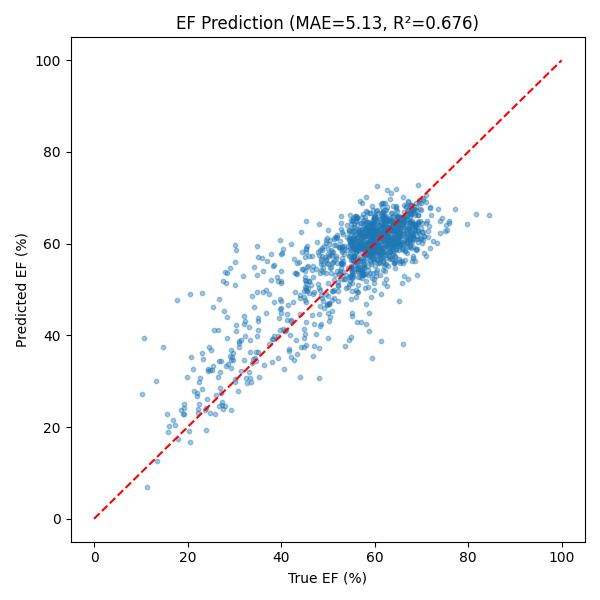
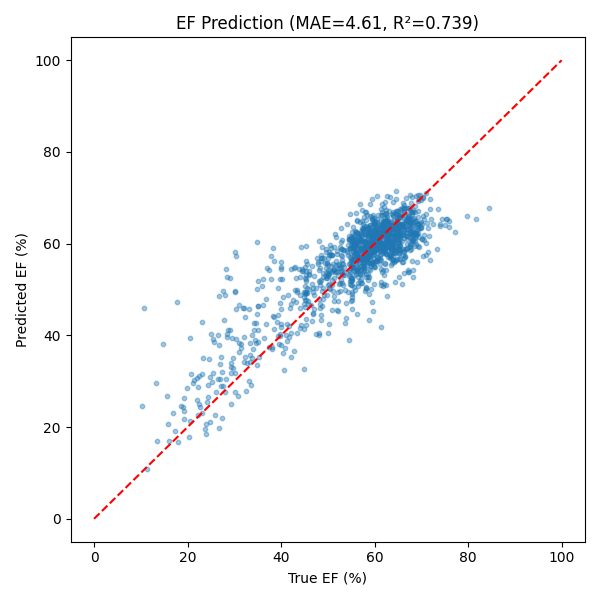
EF: sample every 2nd frame, fine-tuned weights (MAE 4.61, R2 0.739)

diff --git a/training/src/dataset.py b/training/src/dataset.py
@@ -36,18 +36,37 @@ def _read_video(path: str) -> np.ndarray:
     return np.stack(frames)
 
 
-def _sample_clip(video: np.ndarray, clip_length: int, train: bool) -> np.ndarray:
+def window_starts(n: int, clip_length: int, period: int, k: int) -> list:
+    """Start indices of up to k evenly spread windows; a window spans (clip_length-1)*period+1 frames."""
+    span = (clip_length - 1) * period + 1
+    if n <= span:
+        return [0]
+    return sorted({int(round(x)) for x in np.linspace(0, n - span, k)})
+
+
+def _clip_at(video: np.ndarray, start: int, clip_length: int, period: int) -> np.ndarray:
     n = video.shape[0]
-    if n <= clip_length:
-        indices = list(range(n)) + [n - 1] * (clip_length - n)
+    return video[[min(start + i * period, n - 1) for i in range(clip_length)]]  # pad short videos with the last frame
+
+
+def _sample_clip(video: np.ndarray, clip_length: int, train: bool, period: int = 1) -> np.ndarray:
+    n = video.shape[0]
+    span = (clip_length - 1) * period + 1
+    if n <= span:
+        start = 0
     else:
-        start = np.random.randint(0, n - clip_length + 1) if train else (n - clip_length) // 2
-        indices = list(range(start, start + clip_length))
-    return video[indices]
+        start = np.random.randint(0, n - span + 1) if train else (n - span) // 2
+    return _clip_at(video, start, clip_length, period)
+
+
+def to_tensor(clip: np.ndarray) -> np.ndarray:
+    clip = (clip.astype(np.float32) / 255.0 - KINETICS_MEAN) / KINETICS_STD
+    return clip.transpose(3, 0, 1, 2)
 
 
 class EFDataset(Dataset):
-    def __init__(self, split: str):
+    def __init__(self, split: str, period: int = 1):
+        self.period = period
         self.split = split.upper()
         self.df = FILE_LIST[FILE_LIST["Split"] == self.split].reset_index(drop=True)
         self.train = self.split == "TRAIN"
@@ -55,19 +74,16 @@ class EFDataset(Dataset):
     def __len__(self):
         return len(self.df)
 
-    def __getitem__(self, idx):
+    def load_video(self, idx):
         row = self.df.iloc[idx]
-        video_path = os.path.join(VIDEOS_DIR, f"{row['FileName']}.avi")
-        video = _read_video(video_path)
-
+        video = _read_video(os.path.join(VIDEOS_DIR, f"{row['FileName']}.avi"))
         if video.shape[1] != FRAME_SIZE or video.shape[2] != FRAME_SIZE:
             video = np.stack([cv2.resize(f, (FRAME_SIZE, FRAME_SIZE)) for f in video])
+        return video, float(row["EF"]) / 100.0
 
-        clip = _sample_clip(video, CLIP_LENGTH, self.train)
-        clip = clip.astype(np.float32) / 255.0
-        clip = (clip - KINETICS_MEAN) / KINETICS_STD
-        clip = clip.transpose(3, 0, 1, 2)
-
-        ef = float(row["EF"]) / 100.0
+    def __getitem__(self, idx):
+        video, ef = self.load_video(idx)
+        clip = to_tensor(_sample_clip(video, CLIP_LENGTH, self.train, self.period))
+        row = self.df.iloc[idx]
 
         return torch.from_numpy(clip).float(), torch.tensor(ef, dtype=torch.float32)

diff --git a/training/src/train.py b/training/src/train.py
@@ -22,26 +22,30 @@ def evaluate_loader(model, loader, device):
     return (total_abs_error / n) * 100  # de-normalize back to EF percentage points
 
 
-def train(epochs: int = 50, batch_size: int = 4, patience: int = 7):
+def train(epochs: int = 50, batch_size: int = 4, patience: int = 7, lr: float = 1e-4, period: int = 1,
+          tag: str = None, workers: int = 2, init_from: str = None):
     torch.manual_seed(SEED)
     device = torch.device("cuda" if torch.cuda.is_available() else "cpu")
     print(f"device: {device}", flush=True)
 
-    train_set = EFDataset("train")
-    val_set = EFDataset("val")
+    train_set = EFDataset("train", period)
+    val_set = EFDataset("val", period)
 
-    train_loader = DataLoader(train_set, batch_size=batch_size, shuffle=True, num_workers=2, pin_memory=True)
-    val_loader = DataLoader(val_set, batch_size=batch_size, shuffle=False, num_workers=2, pin_memory=True)
+    train_loader = DataLoader(train_set, batch_size=batch_size, shuffle=True, num_workers=workers, pin_memory=True)
+    val_loader = DataLoader(val_set, batch_size=batch_size, shuffle=False, num_workers=workers, pin_memory=True)
 
     model = EFRegressor().to(device)
+    if init_from:
+        model.load_state_dict(torch.load(init_from, map_location=device))
+        print(f"initialised from {init_from}", flush=True)
     criterion = nn.MSELoss()
-    optimizer = torch.optim.AdamW(model.parameters(), lr=1e-4, weight_decay=1e-4)
+    optimizer = torch.optim.AdamW(model.parameters(), lr=lr, weight_decay=1e-4)
     scheduler = torch.optim.lr_scheduler.CosineAnnealingLR(optimizer, T_max=epochs)
     scaler = torch.amp.GradScaler("cuda", enabled=(device.type == "cuda"))
 
     best_mae = float("inf")
     patience_counter = 0
-    model_path = os.path.join(ARTIFACTS_DIR, "ef_model.pt")
+    model_path = os.path.join(ARTIFACTS_DIR, f"{tag or 'ef'}_model.pt")
 
     for epoch in range(1, epochs + 1):
         model.train()
@@ -82,5 +86,12 @@ if __name__ == "__main__":
     parser = argparse.ArgumentParser()
     parser.add_argument("--epochs", type=int, default=50)
     parser.add_argument("--batch-size", type=int, default=4)
+    parser.add_argument("--patience", type=int, default=7)
+    parser.add_argument("--lr", type=float, default=1e-4)
+    parser.add_argument("--period", type=int, default=1, help="use every Nth frame (EchoNet is ~50 fps; 2 covers a full beat)")
+    parser.add_argument("--tag", default=None, help="save as <tag>_model.pt")
+    parser.add_argument("--workers", type=int, default=2)
+    parser.add_argument("--init-from", default=None)
     args = parser.parse_args()
-    train(epochs=args.epochs, batch_size=args.batch_size)
+    train(epochs=args.epochs, batch_size=args.batch_size, patience=args.patience, lr=args.lr, period=args.period,
+          tag=args.tag, workers=args.workers, init_from=args.init_from)

diff --git a/training/src/evaluate.py b/training/src/evaluate.py
@@ -6,31 +6,33 @@ import torch
 from torch.utils.data import DataLoader
 
 from config import ARTIFACTS_DIR
-from dataset import EFDataset
+from dataset import EFDataset, CLIP_LENGTH, _clip_at, _sample_clip, to_tensor, window_starts
 from model import EFRegressor
 
 
-def evaluate():
+def evaluate(tag: str = None, period: int = 1, windows: int = 1):
     device = torch.device("cuda" if torch.cuda.is_available() else "cpu")
 
     model = EFRegressor().to(device)
-    model_path = os.path.join(ARTIFACTS_DIR, "ef_model.pt")
+    model_path = os.path.join(ARTIFACTS_DIR, f"{tag or 'ef'}_model.pt")
     model.load_state_dict(torch.load(model_path, map_location=device))
     model.eval()
 
-    test_set = EFDataset("test")
-    test_loader = DataLoader(test_set, batch_size=4, shuffle=False)
-
-    all_preds, all_true = [], []
+    test_set = EFDataset("test", period)
+    all_preds, all_true, center_preds = [], [], []
     with torch.no_grad():
-        for clips, efs in test_loader:
-            clips = clips.to(device)
-            preds = model(clips).cpu().numpy() * 100
-            all_preds.extend(preds.tolist())
-            all_true.extend((efs.numpy() * 100).tolist())
+        for i in range(len(test_set)):
+            video, ef = test_set.load_video(i)
+            starts = window_starts(video.shape[0], CLIP_LENGTH, period, windows)
+            clips = torch.from_numpy(np.stack([to_tensor(_clip_at(video, s, CLIP_LENGTH, period)) for s in starts])).float().to(device)
+            p = model(clips).cpu().numpy() * 100
+            all_preds.append(float(p.mean()))
+            center_preds.append(float(model(torch.from_numpy(to_tensor(_sample_clip(video, CLIP_LENGTH, False, period))[None]).float().to(device)).cpu().numpy()[0] * 100))
+            all_true.append(ef * 100)
 
     all_preds = np.array(all_preds)
     all_true = np.array(all_true)
+    center_preds = np.array(center_preds)
 
     mae = float(np.mean(np.abs(all_preds - all_true)))
     rmse = float(np.sqrt(np.mean((all_preds - all_true) ** 2)))
@@ -41,6 +43,8 @@ def evaluate():
     metrics = {
         "task": "ef_estimation",
         "test_set_size": len(test_set),
+        "protocol": {"frame_period": period, "windows": windows, "clip_length": CLIP_LENGTH},
+        "mae_center_window_only": round(float(np.mean(np.abs(center_preds - all_true))), 3),
         "mae": round(mae, 3),
         "rmse": round(rmse, 3),
         "r2": round(r2, 4),
@@ -71,4 +75,11 @@ def evaluate():
 
 
 if __name__ == "__main__":
-    evaluate()
+    import argparse
+
+    ap = argparse.ArgumentParser()
+    ap.add_argument("--tag", default=None)
+    ap.add_argument("--period", type=int, default=1)
+    ap.add_argument("--windows", type=int, default=1)
+    a = ap.parse_args()
+    evaluate(a.tag, a.period, a.windows)

diff --git a/backend/app/ef_estimation/model.py b/backend/app/ef_estimation/model.py
@@ -10,6 +10,7 @@ WEIGHTS_DIR = os.path.join(os.path.dirname(__file__), "weights")
 MODEL_PATH = os.path.join(WEIGHTS_DIR, "ef_model.onnx")
 
 CLIP_LENGTH = 32
+FRAME_PERIOD = 2  # every 2nd frame, as in training; one window spans (32-1)*2+1 = 63 frames
 FRAME_SIZE = 112
 MAX_CLIPS = 3
 KINETICS_MEAN = np.array([0.43216, 0.394666, 0.37645], dtype=np.float32)
@@ -66,16 +67,16 @@ def _read_video(video_bytes: bytes) -> np.ndarray:
 
 
 def _clip_starts(n_frames: int) -> list:
-    """Start indices of up to MAX_CLIPS contiguous windows spread across the video."""
-    if n_frames <= CLIP_LENGTH:
+    """Start indices of up to MAX_CLIPS windows spread across the video (same spacing as evaluation)."""
+    span = (CLIP_LENGTH - 1) * FRAME_PERIOD + 1
+    if n_frames <= span:
         return [0]
-    k = min(MAX_CLIPS, 1 + (n_frames - CLIP_LENGTH) // CLIP_LENGTH)
-    return sorted({int(round(s)) for s in np.linspace(0, n_frames - CLIP_LENGTH, k)})
+    return sorted({int(round(s)) for s in np.linspace(0, n_frames - span, MAX_CLIPS)})
 
 
 def _make_clip(video: np.ndarray, start: int) -> np.ndarray:
     n = video.shape[0]
-    idx = [min(start + i, n - 1) for i in range(CLIP_LENGTH)]  # loop-pad short videos with the last frame
+    idx = [min(start + i * FRAME_PERIOD, n - 1) for i in range(CLIP_LENGTH)]  # pad short videos with the last frame
     clip = (video[idx].astype(np.float32) / 255.0 - KINETICS_MEAN) / KINETICS_STD
     return clip.transpose(3, 0, 1, 2)[None, ...].astype(np.float32)
 

diff --git a/backend/tests/test_api.py b/backend/tests/test_api.py
@@ -93,3 +93,19 @@ def test_classification_bands():
     assert [m.classify_ef(x) for x in (70, 55, 54.9, 45, 44.9, 30, 29.9)] == [
         "normal", "normal", "mildly_reduced", "mildly_reduced",
         "moderately_reduced", "moderately_reduced", "severely_reduced"]
+
+
+def test_clip_samples_every_second_frame():
+    video = np.zeros((200, 112, 112, 3), dtype=np.uint8)
+    video[:, 0, 0, 0] = np.arange(200)  # frame index marker in one pixel
+    clip = m._make_clip(video, 10)
+    marker = clip[0, 0, :, 0, 0] * m.KINETICS_STD[0] + m.KINETICS_MEAN[0]
+    assert np.allclose(np.round(marker * 255), [10 + 2 * i for i in range(32)])
+
+
+def test_clip_starts_use_two_frame_period_span():
+    assert m.FRAME_PERIOD == 2
+    assert m._clip_starts(63) == [0]  # exactly one window spans 63 frames
+    assert m._clip_starts(100) == [0, 18, 37]  # same spacing as the evaluation protocol
+    starts = m._clip_starts(400)
+    assert starts == [0, 168, 337] and starts[-1] + 63 <= 400

diff --git a/README.md b/README.md
@@ -10,7 +10,7 @@ Part of the [Arterion](https://github.com/kartikpagariya25/Arterion) project.
 
 ## How it works
 
-An **R(2+1)D-18** video network (Kinetics-pretrained, 31.3 M parameters) regresses EF from a 32-frame, 112×112 clip. At inference the backend scores up to **three contiguous windows** spread across the video and reports their mean; the spread between windows is shown as a stability indicator (it is not a calibrated confidence interval). Videos are resized to 112×112; short videos are padded with their last frame.
+An **R(2+1)D-18** video network (Kinetics-pretrained, 31.3 M parameters) regresses EF from a 32-frame, 112×112 clip built from **every 2nd frame** (a window spans 63 frames, roughly one full heartbeat). At inference the backend scores up to **three windows** spread across the video and reports their mean; the spread between windows is shown as a stability indicator (it is not a calibrated confidence interval). Videos are resized to 112×112; short videos are padded with their last frame.
 
 EF bands: ≥ 55 % normal · 45–54 % mildly reduced · 30–44 % moderately reduced · < 30 % severely reduced.
 
@@ -18,9 +18,9 @@ EF bands: ≥ 55 % normal · 45–54 % mildly reduced · 30–44 % moderately re
 
 | MAE | RMSE | R² |
 |---|---|---|
-| 5.13 EF points | 6.95 | 0.676 |
+| **4.61 EF points** | 6.25 | **0.739** |
 
-These are single-centre results from one centre's videos using the centre window of each video. The project's aim was R² ≥ 0.75 / MAE ≤ 5; MAE is close, R² is not there yet. Numbers in `training/artifacts/metrics.json` always match the published weights.
+Same protocol as the app: every 2nd frame, mean of 3 windows (single centre window: MAE 4.72). The previous release (v1.0.0, consecutive frames, centre window) scored MAE 5.13 / R² 0.676; this model was fine-tuned from it. These are single-centre results. The project's aim was R² ≥ 0.75 / MAE ≤ 5: MAE is met, R² is just short. `training/artifacts/metrics.json` always matches the published weights.
 
 ## Run it
 
